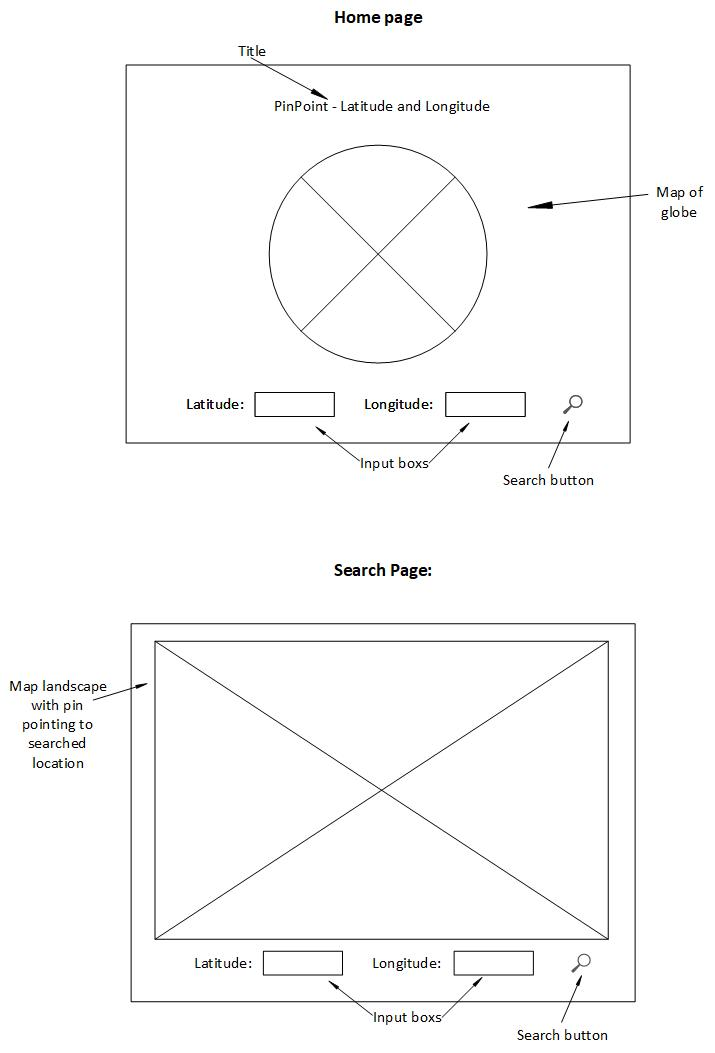
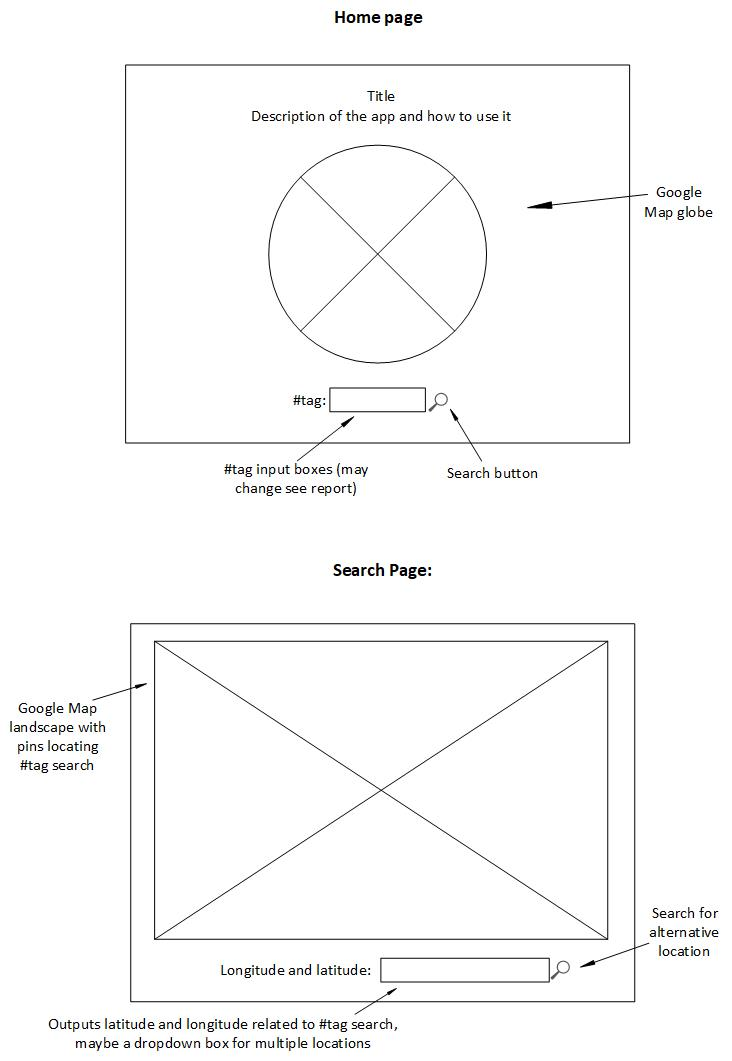
final report and wireframe

diff --git a/readme.md b/readme.md
@@ -1,12 +1,23 @@
 ### **Report** 
 
-The idea for our website is to provide a search function for an object that is then referenced to a physical longitude and latitude that is then presented to the user on a world map. 
+The idea for our website is to provide a search function that when queried will search for an object that then is tied to a physical longitude and latitude and presents the user with a map for them to see where that object is. This design concept can span over many different aspects of google maps API and there isn’t any reason to limit ourselves on a specific search to location theme but at the moment we have decided to use the search function to find a location based off of social media hashtags and the gps imprint data that comes with that. This may be subject to change. 
 
 [Wireframe of idea](/Wireframe.jpg) 
 
 #### Tools:
 
-There are a number of tools that we will use, firstly for communication we will be using Slack. For development we will be using Visual Studio Code with Node.js, Electron and Javascript. For researching on how to develop this website we will be using applications like Google Chrome and primarily information repositories like developer.mozilla.org, GitHub and W3schools.
+Communication - We will be using Slack for our main form of communication, we will also meet weekly to discuss our progress face to face.
+
+Development - To develop our website we will use the languages HTML/CSS & Javascript via the framework called Electron. We will use Google Maps API. The server runtime environment we will use is Node.js and the code editor Visual Studio Code. GitHub will be the service that we use to store our team repository as well as find information about current electron applications.
+
+Information - To gather information about things we don’t understand or how to work through creating a concept we will use a number of online resources listed below as well as advice from our tutor Jeffrey Kranenburg.
+
+* MDN (developer.mozilla.org) - Finding the use of syntax.
+GitHub - Researching current Electron web apps to apply to our own concept and design.
+Lynda.com - Following basic tutorials on Javascript and Electron to reinforce concepts that we will use in development phase.
+* Youtube - Similar to Lynda.com, we will use user created videos to research unknown concepts to apply to our own design.
+* W3Schools - Offers step by step information on Javascript development as well as syntax definitions, both of which will aid us in development.
+
 
 #### Delegated roles:
 
